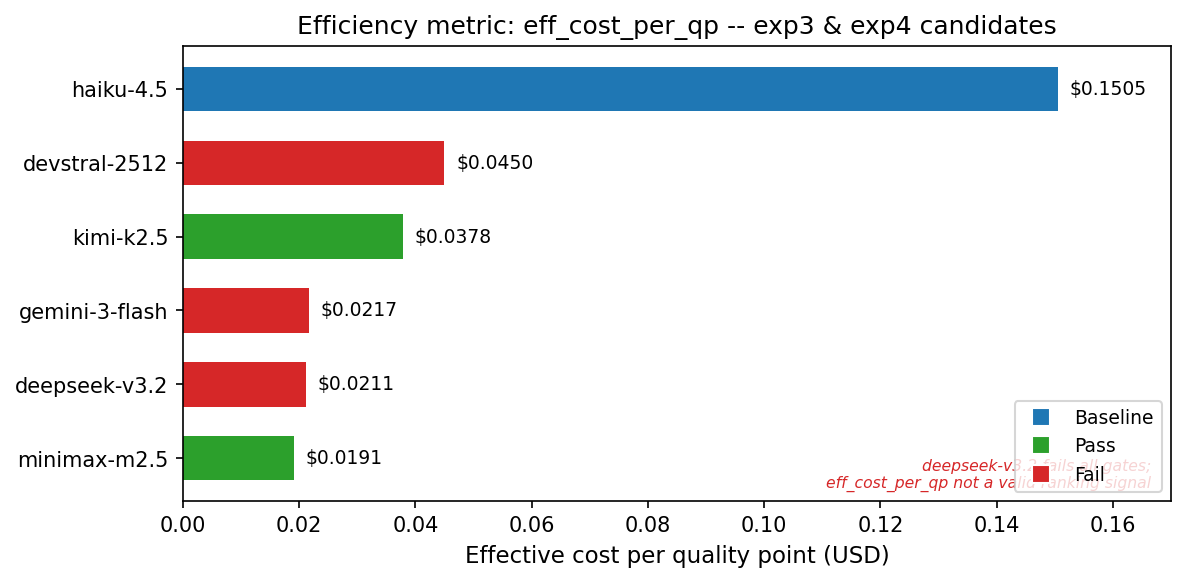
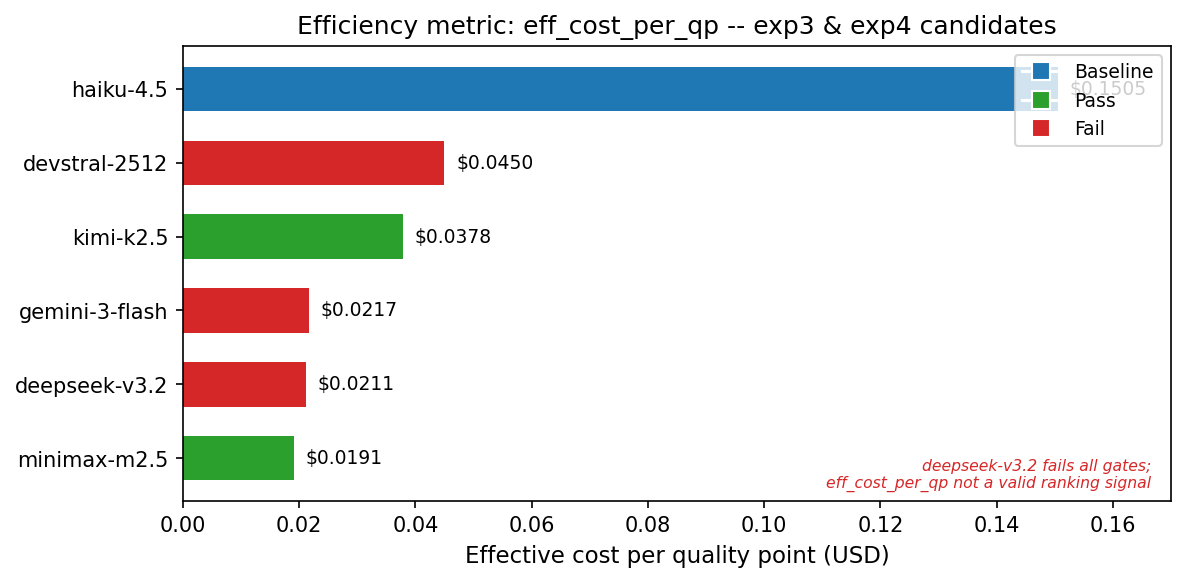
fix(metrics): add table caption and move legend to upper right

Changed region(s): [[0.843, 0.6804, 0.9992, 0.866], [0.843, 0.0928, 0.9992, 0.2784]]

diff --git a/figures/eff-cost-bar.py b/figures/eff-cost-bar.py
@@ -37,7 +37,7 @@ legend_elements = [
     Line2D([0], [0], marker="s", color="w", markerfacecolor="#2ca02c", markersize=9, label="Pass"),
     Line2D([0], [0], marker="s", color="w", markerfacecolor="#d62728", markersize=9, label="Fail"),
 ]
-ax.legend(handles=legend_elements, loc="lower right", fontsize=9)
+ax.legend(handles=legend_elements, loc="upper right", fontsize=9)
 
 plt.tight_layout()
 plt.savefig("figures/eff-cost-bar.png", dpi=150, bbox_inches="tight")

diff --git a/README.md b/README.md
@@ -75,6 +75,8 @@ Composite metric: `eff_cost_per_qp = cost_per_run / (mean_score * reliability)`.
 | Devstral 2512 | 3.0 | $0.113 | 0.833 | $0.045 | 2.6m | fail |
 | Haiku 4.5 | 5.8 | $0.873 | 1.000 | $0.150 | 2.8m | baseline |
 
+*Table 3: Composite efficiency metric (eff_cost_per_qp) per model. Sort order: ascending eff_cost_per_qp. Qwen3 Coder omitted (0 valid runs; metric undefined). DeepSeek V3.2 included for completeness but fails all quality gates.*
+
 DeepSeek V3.2 ranks 2nd by this metric but fails all gates; eff_cost_per_qp is not a valid ranking signal for models that do not pass. Among passing candidates, MiniMax M2.5 ($0.019/QP) is 2x more cost-effective per quality point than Kimi K2.5 ($0.038/QP). Wall time is reported separately and is not folded into the composite.
 
 Qwen3 Coder is omitted (0 valid runs; metric is undefined).
